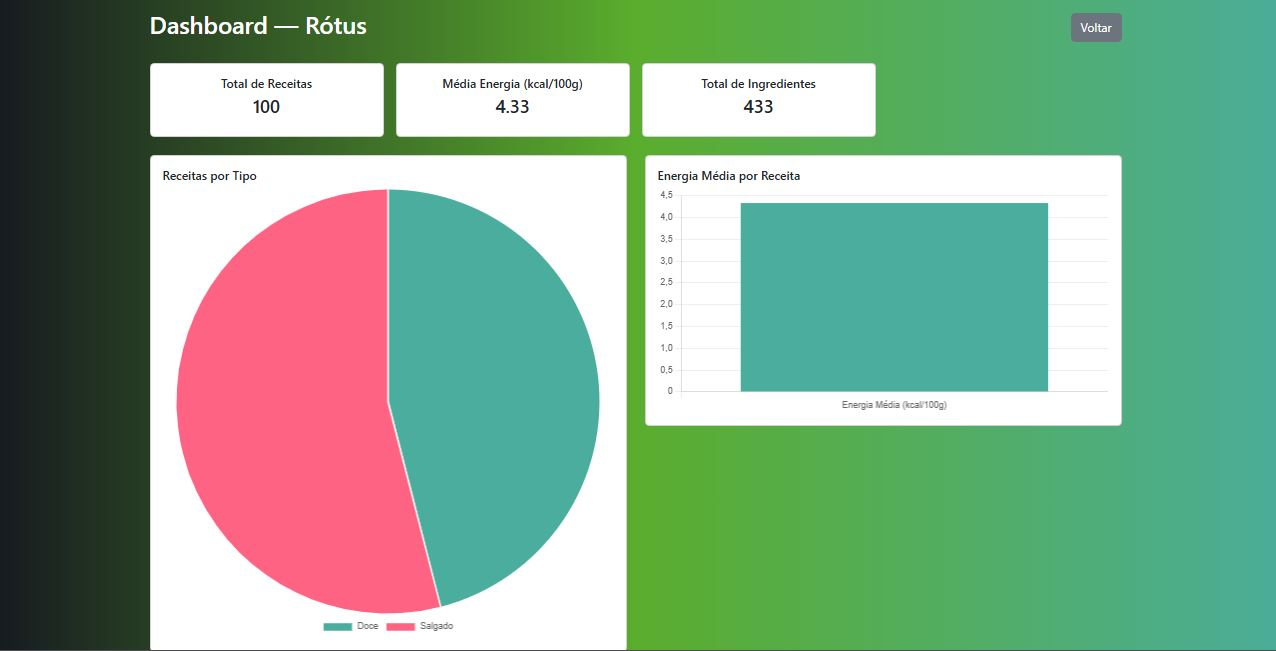
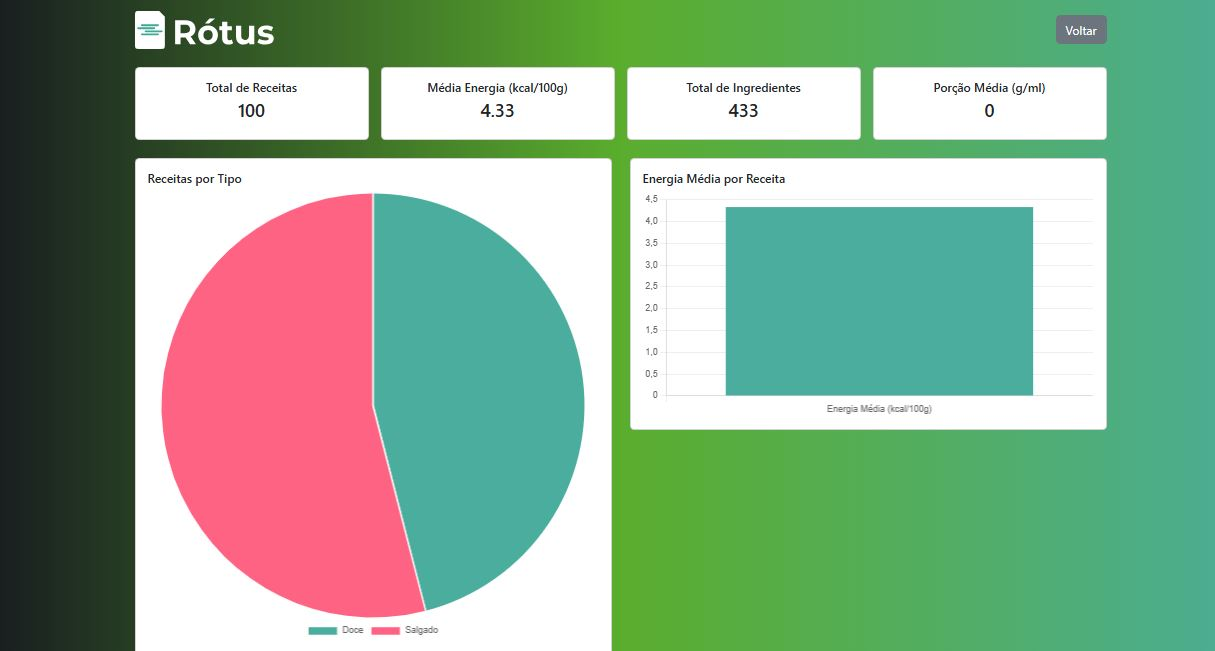
Feat: Melhorias de frontend index.html e dash.html

diff --git a/static/js/dash.js b/static/js/dash.js
@@ -1,4 +1,4 @@
-   document.addEventListener("DOMContentLoaded", async () => {
+document.addEventListener("DOMContentLoaded", async () => {
     const apiUrl = "/dashboard/dashboard-stats/";
 
     try {
@@ -7,28 +7,28 @@
 
         if (data.error) throw new Error(data.error);
 
-        // Atualiza indicadores numéricos
+        // === Indicadores numéricos ===
         document.getElementById("total-receitas").textContent = data.total_receitas || 0;
         document.getElementById("total-ingredientes").textContent = data.total_ingredientes || 0;
         document.getElementById("media-energia").textContent = data.media_energia ? data.media_energia.toFixed(2) : "0";
+        document.getElementById("porcao-media").textContent = data.porcao_media ? data.porcao_media.toFixed(2) : "0";
 
         // === Gráfico: Receitas por Tipo ===
         const tiposLabels = Object.keys(data.receitas_por_tipo || {});
         const tiposData = Object.values(data.receitas_por_tipo || {});
-
         new Chart(document.getElementById("chartTipos"), {
             type: 'pie',
             data: {
                 labels: tiposLabels.length ? tiposLabels : ["Sem dados"],
                 datasets: [{
                     data: tiposData.length ? tiposData : [1],
-                    backgroundColor: ['#4aad9d', '#ff6384', '#36a2eb', '#ffcd56', '#9966ff', '#c9cbcf']
+                    backgroundColor: ['#4aad9d', '#ff6384', '#36a2eb', '#ffcd56', '#9966ff']
                 }]
             },
             options: { plugins: { legend: { position: 'bottom' } } }
         });
 
-        // === Gráfico: Energia Média por Receita (ou indicador alternativo) ===
+        // === Gráfico: Energia Média por Receita ===
         new Chart(document.getElementById("chartEnergia"), {
             type: 'bar',
             data: {
@@ -45,10 +45,28 @@
             }
         });
 
+        // === Novo Gráfico: Porção Média por Tipo de Receita ===
+        const porcaoLabels = Object.keys(data.porcao_media_por_tipo || {});
+        const porcaoData = Object.values(data.porcao_media_por_tipo || {});
+        new Chart(document.getElementById("chartPorcaoTipo"), {
+            type: 'bar',
+            data: {
+                labels: porcaoLabels.length ? porcaoLabels : ["Sem dados"],
+                datasets: [{
+                    label: 'Porção Média (g/ml)',
+                    data: porcaoData.length ? porcaoData : [1],
+                    backgroundColor: '#36a2eb'
+                }]
+            },
+            options: {
+                scales: { y: { beginAtZero: true } },
+                plugins: { legend: { display: false } }
+            }
+        });
+
         // === Gráfico: Top 5 Ingredientes Mais Usados ===
         const ingLabels = Object.keys(data.top_ingredientes || {});
         const ingData = Object.values(data.top_ingredientes || {});
-
         new Chart(document.getElementById("chartIngredientes"), {
             type: 'doughnut',
             data: {
@@ -58,13 +76,17 @@
                     backgroundColor: ['#4aad9d', '#36a2eb', '#ff6384', '#ffcd56', '#9966ff']
                 }]
             },
-            options: { plugins: { legend: { position: 'bottom' } } }
+            options: { 
+                aspectRatio: 1, // <-- reduz tamanho visual
+                plugins: { legend: { position: 'bottom' } } 
+            }
         });
 
     } catch (error) {
         console.error("Erro ao carregar dashboard:", error);
     }
 });
+
    //    // Exemplos de dados estáticos
     //     const ctx1 = document.getElementById('chartTipos');
     //     new Chart(ctx1, {

diff --git a/dashboard/templates/dashboard/dash.html b/dashboard/templates/dashboard/dash.html
@@ -10,45 +10,73 @@
     <link rel="stylesheet" href="/static/css/dash.css">
 </head>
 <body class="container py-4">
+    {% load static %}
     <div class="d-flex justify-content-between align-items-center mb-4">
-        <h2 style="color: white;">Dashboard — Rótus</h2>
+        <!-- <h2 style="color: white;">Dashboard — Rótus</h2> -->
+            <div class="text-start">
+            <img src="{% static 'img/logo.svg' %}" alt="Rótus — Dashboard" style="height: 50px;">
+        </div>
         <a href="{% url 'dashboard:index' %}" class="btn btn-secondary">Voltar</a>
     </div>
 
-    <div class="row g-3 mb-4">
-        <div class="col-md-3">
-            <div class="card text-center p-3"><h6>Total de Receitas</h6><h4 id="total-receitas">0</h4></div>
-        </div>
-        <div class="col-md-3">
-            <div class="card text-center p-3"><h6>Média Energia (kcal/100g)</h6><h4 id="media-energia">0</h4></div>
-        </div>
-        <!-- <div class="col-md-3">
-            <div class="card text-center p-3"><h6>Total de Usuários</h6><h4 id="total-usuarios">0</h4></div>
-        </div> -->
-        <div class="col-md-3">
-            <div class="card text-center p-3"><h6>Total de Ingredientes</h6><h4 id="total-ingredientes">0</h4></div>
+<div class="row g-3 mb-4">
+    <div class="col-md-3">
+        <div class="card text-center p-3">
+            <h6>Total de Receitas</h6>
+            <h4 id="total-receitas">0</h4>
         </div>
     </div>
+    <div class="col-md-3">
+        <div class="card text-center p-3">
+            <h6>Média Energia (kcal/100g)</h6>
+            <h4 id="media-energia">0</h4>
+        </div>
+    </div>
+    <div class="col-md-3">
+        <div class="card text-center p-3">
+            <h6>Total de Ingredientes</h6>
+            <h4 id="total-ingredientes">0</h4>
+        </div>
+    </div>
+    <!-- Novo indicador -->
+    <div class="col-md-3">
+        <div class="card text-center p-3">
+            <h6>Porção Média (g/ml)</h6>
+            <h4 id="porcao-media">0</h4>
+        </div>
+    </div>
+</div>
 
-    <div class="row g-4">
-        <div class="col-md-6">
-            <div class="card p-3">
-                <h6>Receitas por Tipo</h6>
-                <canvas id="chartTipos"></canvas>
-            </div>
-        </div>
-        <div class="col-md-6">
-            <div class="card p-3">
-                <h6>Energia Média por Receita</h6>
-                <canvas id="chartEnergia"></canvas>
-            </div>
+<div class="row g-4">
+    <div class="col-md-6">
+        <div class="card p-3">
+            <h6>Receitas por Tipo</h6>
+            <canvas id="chartTipos"></canvas>
         </div>
     </div>
+    <div class="col-md-6">
+        <div class="card p-3">
+            <h6>Energia Média por Receita</h6>
+            <canvas id="chartEnergia"></canvas>
+        </div>
+    </div>
+</div>
 
-    <div class="card mt-4 p-3">
-        <h6>Top 5 Ingredientes Mais Usados</h6>
-        <canvas id="chartIngredientes"></canvas>
+<!-- Novo gráfico abaixo -->
+<div class="row g-4 mt-2">
+    <div class="col-md-6">
+        <div class="card p-3">
+            <h6>Porção Média por Tipo de Receita</h6>
+            <canvas id="chartPorcaoTipo"></canvas>
+        </div>
     </div>
+    <div class="col-md-6">
+        <div class="card p-3">
+            <h6>Top 5 Ingredientes Mais Usados</h6>
+            <canvas id="chartIngredientes"></canvas>
+        </div>
+    </div>
+</div>
 
 <script src="/static/js/dash.js"></script>
 </body>

diff --git a/dashboard/templates/dashboard/index.html b/dashboard/templates/dashboard/index.html
@@ -19,13 +19,15 @@
 
 </head>
 <body class="container py-4">
-
+    {% load static %}
     <header class="d-flex align-items-center justify-content-between mb-4">
-        <h1 class="m-0" style="color: white;">Rótus — Dashboard</h1>
-        <div>
+        <div class="text-start">
             <!-- <button id="btn-open-user-modal" class="btn btn-primary me-2">Cadastrar Usuário</button> -->
-            <button  style=" border: 2px solid white;" id="btn-open-dashboard" class="btn btn-primary me-2" data-url="{% url 'dashboard:dash' %}"> Dashboard </button>
-
+            <!-- <button  style=" border: 2px solid white;" id="btn-open-dashboard" class="btn btn-primary me-2" data-url="{% url 'dashboard:dash' %}"> Dashboard </button> -->
+            <button id="btn-open-dashboard" class="btn btn-primary me-2" data-url="{% url 'dashboard:dash' %}" style="border: 2px solid white; margin-right: auto;"> Dashboard</button>
+        </div>
+        <div class="text-end">
+            <img src="{% static 'img/logo.svg' %}" alt="Rótus — Dashboard" style="height: 50px;">
         </div>
     </header>
 

diff --git a/dashboard/views.py b/dashboard/views.py
@@ -8,7 +8,7 @@ from mongoengine.errors import ValidationError as MEValidationError
 from .api_utils import document_to_dict
 from .models import Receita, Ingrediente
 from django.http import JsonResponse
-from collections import Counter
+from collections import Counter, defaultdict
 
 
 # ---------- Páginas ----------
@@ -280,7 +280,8 @@ def dashboard_stats(request):
     - total de ingredientes
     - receitas por tipo (categoria)
     - top 5 ingredientes mais usados
-    - energia média por receita (se possível)
+    - energia média por receita (kcal/100g)
+    - porção média geral e por tipo de receita
     """
     try:
         # === Totais ===
@@ -295,15 +296,13 @@ def dashboard_stats(request):
         ingredientes_nomes = []
         for ing in Ingrediente.objects.only("alimento"):
             if ing.alimento:
-                try:
-                    ingredientes_nomes.append(ing.alimento.nome)
-                except:
-                    pass
+                # Pode ser um StringField, então usa direto
+                nome_alimento = str(ing.alimento)
+                ingredientes_nomes.append(nome_alimento.strip())
 
         top_ingredientes = dict(Counter(ingredientes_nomes).most_common(5))
 
         # === Energia média por receita (se disponível) ===
-        # Supondo que cada AlimentoTaco tem campo 'energia_kcal'
         energia_media = None
         energia_por_receita = []
 
@@ -328,16 +327,34 @@ def dashboard_stats(request):
         except Exception:
             energia_media = None
 
-        # Se não houver energia disponível, cria outro indicador substituto
         if energia_media is None:
-            energia_media = total_ingredientes / total_receitas if total_receitas else 0
+            energia_media = round(total_ingredientes / total_receitas, 2) if total_receitas else 0
 
+        # === Porção média geral ===
+        porcoes = [float(r.porcao_individual or 0) for r in Receita.objects.only("porcao_individual") if r.porcao_individual]
+        porcao_media = round(sum(porcoes) / len(porcoes), 2) if porcoes else 0
+
+        # === Porção média por tipo de receita ===
+        porcao_por_tipo = defaultdict(list)
+        for r in Receita.objects.only("categoria", "porcao_individual"):
+            if r.porcao_individual:
+                categoria = r.categoria or "Sem categoria"
+                porcao_por_tipo[categoria].append(float(r.porcao_individual))
+
+        porcao_media_por_tipo = {
+            cat: round(sum(vals) / len(vals), 2)
+            for cat, vals in porcao_por_tipo.items()
+        }
+
+        # === Retorno JSON ===
         data = {
             "total_receitas": total_receitas,
             "total_ingredientes": total_ingredientes,
             "receitas_por_tipo": categorias_count,
             "top_ingredientes": top_ingredientes,
             "media_energia": energia_media,
+            "porcao_media": porcao_media,
+            "porcao_media_por_tipo": porcao_media_por_tipo,
         }
 
         return JsonResponse(data, safe=False)

diff --git a/README.md b/README.md
@@ -1,4 +1,10 @@
 
+<!-- <h4 align="center">
+  <img src="static/img/logo.svg" alt="Rótus Logo" width="60" style="vertical-align: middle; margin-right: 10px;"/>
+ <span style="font-size: 20px;">- 2025 | DSM</span>
+</h4>
+
+<p align="center"> -->
 <h1 align="center">🧠 Rótus — Dashboard Nutricional- 2025 | DSM</h1>
 <p align="center">
 
@@ -10,6 +16,7 @@
 Projeto avaliativo da disciplina Banco de dados não relacional, 3° semestre, do curso <a href="https://fatecararas.cps.sp.gov.br/tecnologia-em-desenvolvimento-de-softwares-multiplataforma/">DSM- Desenvolvimento de software multiplataforma.</a>
 
 # 📃 Sumário:
+
 <p align="center">
  <a href="#-status-do-projeto">Status</a> • 
  <a href="#-layout-da-página-inicial">Layout</a> • 
@@ -24,7 +31,6 @@ Projeto avaliativo da disciplina Banco de dados não relacional, 3° semestre, d
  <a href="#-autores">Autores</a> • 
  <a href="#memo-licença">Licença</a>
 </p>
-
  
 
 **Rótus** é um dashboard interativo desenvolvido em **Django 5 + MongoDB (Atlas)** para **análise e gerenciamento de receitas e ingredientes**.  
@@ -78,7 +84,7 @@ A aplicação permite **CRUD completo** de receitas, cálculo de indicadores, e 
 ├─ 📂 dashboard/
 | ├─ 📂 management/
 │  ├─ 📂 commands/
-|  │   └─  📄 popular_receitas.py
+|  │   └─  📄 popular_receitas.py #  Gera 100 receitas para o DB.
 │  ├─ 📂 migrations/
 │  ├─ 📂 models/
 │  │   ├─ 📄 __init__.py
@@ -114,7 +120,6 @@ A aplicação permite **CRUD completo** de receitas, cálculo de indicadores, e 
 ├─ 📄 .coverage
 ├─ 📄 .gitignore
 ├─ 📄 compose-connections.json
-├─ 📄 databases.txt
 ├─ 📄 LICENSE
 ├─ 📄 manage.py
 ├─ 📄 pytest.ini
@@ -230,13 +235,16 @@ Acesse:
 
 O dashboard analítico exibe dados calculados em tempo real via endpoint `/dashboard/dashboard-stats/`:
 
-| Indicador | Descrição |
-|------------|------------|
-| **Total de Receitas** | Contagem total de receitas cadastradas |
-| **Total de Ingredientes** | Quantidade total de ingredientes no sistema |
-| **Receitas por Tipo** | Distribuição por categoria (Doce, Salgada, Fit, etc.) |
-| **Top 5 Ingredientes Mais Usados** | Ingredientes mais frequentes nas receitas |
-| **Energia Média por Receita** | Calculada a partir dos alimentos da TACO (kcal/100g) ou indicador alternativo |
+| Indicador                          | Descrição                                             |
+| ---------------------------------- | ----------------------------------------------------- |
+| **Total de Receitas**              | Quantidade total de receitas cadastradas              |
+| **Total de Ingredientes**          | Quantidade total de ingredientes no sistema           |
+| **Receitas por Tipo**              | Distribuição por categoria (Doce, Salgada, Fit, etc.) |
+| **Top 5 Ingredientes Mais Usados** | Ingredientes mais frequentes nas receitas             |
+| **Energia Média por Receita**      | Média energética das receitas (kcal/100g)             |
+| **Porção Média**                   | Peso médio das porções das receitas                   |
+| **Porção Média por Tipo**          | Peso médio das porções, agrupadas por tipo de receita |
+
 
 Gráficos utilizados:
 - 🥧 **Pie Chart** — Receitas por Tipo  
@@ -278,8 +286,15 @@ Gráficos utilizados:
     "Leite": 6,
     "Manteiga": 5
   },
-  "media_energia": 254.8
+  "media_energia": 254.8,
+  "porcao_media": 120.5,
+  "porcao_media_por_tipo": {
+    "Doce": 115.2,
+    "Salgada": 130.1,
+    "Vegana": 110.8
+  }
 }
+
 ```
 
 ---
